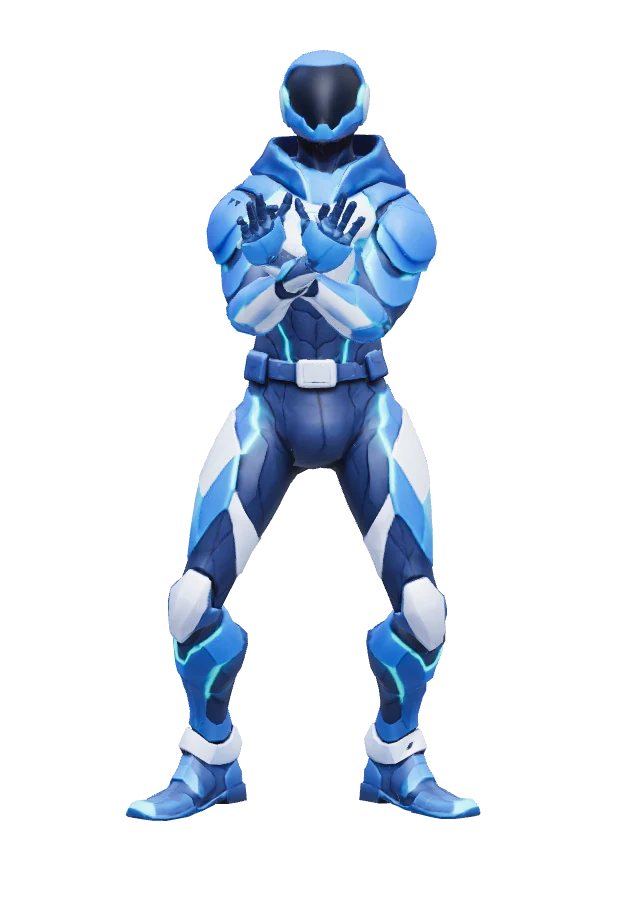
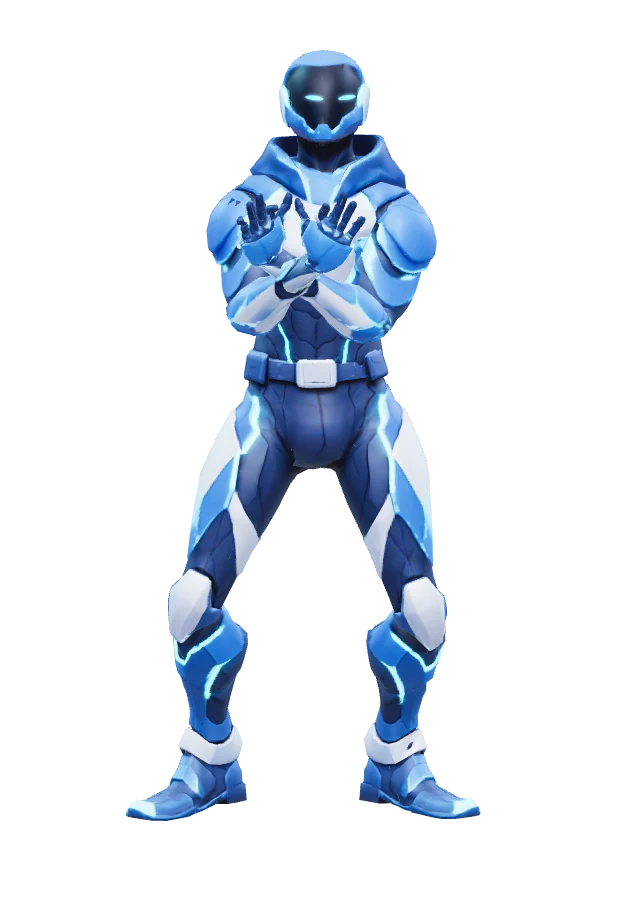
Azure: glowing slit eyes on the visor, video-like lighting
- visor eyes: two narrow cyan slits tilted to the middle (blink, happy,
  angry, x kept), no mouth; stuck to the visor surface by a raycast
- cyan armor seams glow (emissive mask from the texture)
- two cyan rim lights + soft cool fill, slightly lower exposure
- 2D frames re-rendered with the same look

Claude-Session: https://claude.ai/code/session_01HdTDkaoMVJGspDGXskbe46

diff --git a/public/knight3d.js b/public/knight3d.js
@@ -27,14 +27,17 @@ export async function createKnight(host, { onReact = () => {} } = {}) {
   host.appendChild(canvas);
   const R = new THREE.WebGLRenderer({ canvas, antialias: true, alpha: true, preserveDrawingBuffer: DBG.has('shot') });
   R.setPixelRatio(Math.min(devicePixelRatio, 2));
-  R.outputColorSpace = THREE.SRGBColorSpace; R.toneMapping = THREE.ACESFilmicToneMapping; R.toneMappingExposure = 1.05;
+  R.outputColorSpace = THREE.SRGBColorSpace; R.toneMapping = THREE.ACESFilmicToneMapping; R.toneMappingExposure = num('exp', 1.0);
   R.shadowMap.enabled = true; R.shadowMap.type = THREE.PCFSoftShadowMap;
   const S = new THREE.Scene();
   S.environment = new THREE.PMREMGenerator(R).fromScene(new RoomEnvironment(), 0.04).texture;
-  S.add(new THREE.HemisphereLight(0xcfe0ff, 0x1a2a55, 0.9));
-  const key = new THREE.DirectionalLight(0xffffff, 2.2); key.position.set(1.2, 3, 3); key.castShadow = true; key.shadow.mapSize.set(1024, 1024);
+  // lit like the promo video: soft cool fill, a key from the front-right, strong cyan rims on both sides of the silhouette
+  S.add(new THREE.HemisphereLight(0xd6e6ff, 0x101c40, num('hemi', 0.75)));
+  const key = new THREE.DirectionalLight(0xf4f8ff, num('key', 1.9)); key.position.set(1.2, 3, 3); key.castShadow = true; key.shadow.mapSize.set(1024, 1024);
   Object.assign(key.shadow.camera, { left: -1.6, right: 1.6, top: 2.2, bottom: -0.6 }); S.add(key);
-  const rim = new THREE.DirectionalLight(0x7fb4ff, 1.6); rim.position.set(-2, 2, -2); S.add(rim);
+  const rim = new THREE.DirectionalLight(0x7fe0ff, num('rim', 3.2)); rim.position.set(-2.2, 1.8, -2); S.add(rim);
+  const rim2 = new THREE.DirectionalLight(0x9fc8ff, num('rim', 3.2) * 0.8); rim2.position.set(2.2, 1.6, -2); S.add(rim2);
+  const fill = new THREE.DirectionalLight(0x8fb8ff, 0.5); fill.position.set(-1.5, 0.4, 2.5); S.add(fill);
   const floor = new THREE.Mesh(new THREE.PlaneGeometry(4, 3), new THREE.ShadowMaterial({ opacity: 0.32 }));
   floor.rotation.x = -Math.PI / 2; floor.receiveShadow = true; S.add(floor);
   const C = new THREE.OrthographicCamera(-1, 1, 1, -1, 0.1, 50);
@@ -57,7 +60,7 @@ export async function createKnight(host, { onReact = () => {} } = {}) {
   const knight = K.scene; knight.scale.setScalar(MODEL_SCALE); S.add(knight);
   const bone = n => { let b = null; knight.traverse(o => { if (o.name === n) b = o; }); return b; };
   let body = null;
-  knight.traverse(o => { if (o.isMesh) { o.castShadow = true; if (o.material) o.material.envMapIntensity = 1.2; } });
+  knight.traverse(o => { if (o.isMesh) { o.castShadow = true; if (o.material) { o.material.envMapIntensity = num('env', 1.0); glowStripes(o.material); } } });
   knight.traverse(o => { if (o.isSkinnedMesh) { body = o; o.frustumCulled = false; } });
 
   // ---------- animation ----------
@@ -146,7 +149,10 @@ export async function createKnight(host, { onReact = () => {} } = {}) {
     const patch = new THREE.Mesh(geo, new THREE.MeshBasicMaterial({ map: face.tex, transparent: true, depthWrite: false, blending: THREE.AdditiveBlending, toneMapped: false, polygonOffset: true, polygonOffsetFactor: -4 }));
     const hp = head.getWorldPosition(new THREE.Vector3());
     patch.position.set(0, hp.y + FACE.y, hp.z + FACE.z); patch.renderOrder = 2;
-    patch.visible = false;   // Azure has a clean glowing visor of its own; the face canvas stays for expressions logic
+    if (body) {   // sit the eyes right on the visor surface
+      const rc = new THREE.Raycaster(new THREE.Vector3(hp.x, patch.position.y, hp.z + 5), new THREE.Vector3(0, 0, -1));
+      const hit = rc.intersectObject(body, false)[0]; if (hit) patch.position.z = hit.point.z + 0.006;
+    }
     S.add(patch); patch.updateMatrixWorld(true); head.attach(patch);
     act('Idle').stop();
   }
@@ -250,29 +256,37 @@ function pick(list, not) { const l = list.filter(x => x !== not); return l[Math.
 
 
 // Face: 1000×600 canvas drawn in code (glowing eyes + voice line), mapped onto the visor
+// the cyan seams of the armor glow on their own (emissive), so they stay bright in any light
+export function glowStripes(m) {
+  const img = m.map && m.map.image; if (!img || m.userData.glow) return; m.userData.glow = true;
+  try {
+    const W = Math.min(1024, img.width), H = Math.round(W * img.height / img.width), cv = document.createElement('canvas'); cv.width = W; cv.height = H;
+    const g = cv.getContext('2d'); g.drawImage(img, 0, 0, W, H); const d = g.getImageData(0, 0, W, H), px = d.data;
+    for (let i = 0; i < px.length; i += 4) { const r = px[i], gg = px[i + 1], b = px[i + 2]; const cyan = gg > 140 && b > 170 && r < 140 && gg > r + 50;
+      if (!cyan) { px[i] = px[i + 1] = px[i + 2] = 0; } }
+    g.putImageData(d, 0, 0); const t = new THREE.CanvasTexture(cv);
+    t.flipY = m.map.flipY; t.colorSpace = THREE.SRGBColorSpace; t.wrapS = m.map.wrapS; t.wrapT = m.map.wrapT;
+    m.emissiveMap = t; m.emissive = new THREE.Color(0xffffff); m.emissiveIntensity = 1.6; m.needsUpdate = true;
+  } catch (e) { /* no glow if the texture can't be read */ }
+}
+
 export function makeFace() {
   // SECRA's face: light drawn on the dark visor — two eye bars and a voice line, all in a cyan glow
   const FW = 1000, FH = 600, cv = document.createElement('canvas'); cv.width = FW; cv.height = FH;
   const g = cv.getContext('2d'), tex = new THREE.CanvasTexture(cv); tex.colorSpace = THREE.SRGBColorSpace;
   const st = { eyes: 'open', mouth: 'closed', tex, set(e, m) { if (e) st.eyes = e; if (m) st.mouth = m; draw(); } };
-  const GLOW = '#7ff3ff', EY = 235, EX = [325, 675], MY = 440;
+  const GLOW = '#7ff3ff', EY = 300, EX = [330, 670], MY = 440;
   function glow(fn, w = 26) { g.save(); g.strokeStyle = GLOW; g.fillStyle = GLOW; g.lineCap = 'round'; g.lineJoin = 'round'; g.shadowColor = GLOW; g.shadowBlur = 40; g.lineWidth = w; fn(); g.restore(); }
-  // cute look: big soft oval eyes with a little shine, gentle curves instead of hard bars
-  function oval(x, y, rx, ry) { g.beginPath(); g.ellipse(x, y, rx, ry, 0, 0, Math.PI * 2); g.fill(); }
+  // visor eyes: two narrow glowing slits, tilted toward the middle (as in the promo video)
+  function slit(x, y, len, th, ang) { g.save(); g.translate(x, y); g.rotate(ang); g.beginPath(); g.ellipse(0, 0, len / 2, th / 2, 0, 0, Math.PI * 2); g.fill(); g.restore(); }
   function eye(x, kind) {
-    const s = x < FW / 2 ? 1 : -1;
-    if (kind === 'open' || kind === 'angry') {
-      glow(() => { g.globalAlpha = 0.9; oval(x, EY, 62, 88); });
-      g.save(); g.fillStyle = 'rgba(0,0,0,0.85)'; oval(x - 20, EY - 38, 12, 15); oval(x + 24, EY + 34, 6, 7);   // shine spots (left dark = additive "hole")
-      if (kind === 'angry') { g.beginPath(); g.moveTo(x - 110 * s, EY - 120); g.lineTo(x + 90 * s, EY - 120); g.lineTo(x + 90 * s, EY - 10); g.closePath(); g.fill(); }
-      g.restore(); return;
-    }
+    const s = x < FW / 2 ? 1 : -1;   // left eye: inner end is to the right
     glow(() => {
-      g.beginPath();
-      if (kind === 'closed') g.arc(x, EY - 10, 62, 0.15 * Math.PI, 0.85 * Math.PI);            // sleepy ‿
-      else if (kind === 'happy') g.arc(x, EY + 45, 64, 1.15 * Math.PI, 1.85 * Math.PI);       // smiling ^
-      else if (kind === 'x') { g.moveTo(x - 50, EY - 50); g.lineTo(x + 50, EY + 50); g.moveTo(x + 50, EY - 50); g.lineTo(x - 50, EY + 50); }
-      g.stroke();
+      if (kind === 'open') { g.globalAlpha = 0.95; slit(x, EY, 190, 46, 0.2 * s); }
+      else if (kind === 'angry') { slit(x, EY + 10, 190, 40, 0.42 * s); }
+      else if (kind === 'closed') { slit(x, EY + 8, 180, 12, 0.12 * s); }
+      else if (kind === 'happy') { g.beginPath(); g.arc(x, EY + 60, 92, 1.2 * Math.PI, 1.8 * Math.PI); g.stroke(); }
+      else if (kind === 'x') { g.beginPath(); g.moveTo(x - 50, EY - 50); g.lineTo(x + 50, EY + 50); g.moveTo(x + 50, EY - 50); g.lineTo(x - 50, EY + 50); g.stroke(); }
     }, 24);
   }
   // voice line: a small smile at rest, a little waveform while speaking
@@ -284,7 +298,7 @@ export function makeFace() {
       const step = 40; a.forEach((h, i) => { const x = mx + (i - (n - 1) / 2) * step; g.beginPath(); g.moveTo(x, MY - h * 60); g.lineTo(x, MY + h * 60); g.stroke(); });
     }, 18);
   }
-  function draw() { g.clearRect(0, 0, FW, FH); EX.forEach(x => eye(x, st.eyes)); mouth(st.mouth); tex.needsUpdate = true; }
+  function draw() { g.clearRect(0, 0, FW, FH); EX.forEach(x => eye(x, st.eyes)); tex.needsUpdate = true; }   // no mouth: the visor only shows eyes
   draw();
   return st;
 }

diff --git a/public/index.html b/public/index.html
@@ -5,7 +5,7 @@
 <meta name="viewport" content="width=device-width, initial-scale=1, viewport-fit=cover">
 <title>SECRA — приватный ИИ-агент на NEAR</title>
 <meta name="description" content="SECRA — голосовой ИИ-агент на NEAR: отвечает в защищённой среде и платит приватно через NEAR Intents">
-<link rel="stylesheet" href="app.css?v=secra6">
+<link rel="stylesheet" href="app.css?v=secra7">
 <link rel="manifest" href="manifest.webmanifest">
 <meta name="theme-color" content="#0a1638">
 <link rel="apple-touch-icon" href="icons/apple-180.png">
@@ -68,12 +68,12 @@
     <div class="bubble" id="bubble" aria-live="polite"></div>
     <button class="bexp" id="bexp" aria-label="Show more" type="button">⌄</button>
     <div class="char" id="char" role="img" aria-label="SECRA">
-      <img data-f="idle"  src="img/idle.webp?v=secra6"  alt="" class="show">
-      <img data-f="blink" src="img/blink.webp?v=secra6" alt="">
-      <img data-f="talk1" src="img/talk1.webp?v=secra6" alt="">
-      <img data-f="talk2" src="img/talk2.webp?v=secra6" alt="">
-      <img data-f="laugh" src="img/laugh.webp?v=secra6" alt="">
-      <img data-f="wave"  src="img/wave.webp?v=secra6"  alt="">
+      <img data-f="idle"  src="img/idle.webp?v=secra7"  alt="" class="show">
+      <img data-f="blink" src="img/blink.webp?v=secra7" alt="">
+      <img data-f="talk1" src="img/talk1.webp?v=secra7" alt="">
+      <img data-f="talk2" src="img/talk2.webp?v=secra7" alt="">
+      <img data-f="laugh" src="img/laugh.webp?v=secra7" alt="">
+      <img data-f="wave"  src="img/wave.webp?v=secra7"  alt="">
     </div>
   </div>
 

diff --git a/public/widget.js b/public/widget.js
@@ -34,7 +34,7 @@
 
   var btn = document.createElement('button');
   btn.className = 'snw-btn'; btn.type = 'button';
-  btn.innerHTML = '<img alt="" src="' + origin + '/img/idle.webp?v=secra6"><span>' + label + '<small>🔒 ' + (lang === 'ru' ? 'проверяемо приватно' : 'verifiably private') + '</small></span>';
+  btn.innerHTML = '<img alt="" src="' + origin + '/img/idle.webp?v=secra7"><span>' + label + '<small>🔒 ' + (lang === 'ru' ? 'проверяемо приватно' : 'verifiably private') + '</small></span>';
   var panel = document.createElement('div'); panel.className = 'snw-panel';
   var close = document.createElement('button'); close.className = 'snw-x'; close.type = 'button'; close.textContent = '✕'; close.setAttribute('aria-label', 'Close');
   panel.appendChild(close);

diff --git a/public/app.js b/public/app.js
@@ -1271,7 +1271,7 @@ const APP_SRC = (document.currentScript && document.currentScript.src) || locati
     else if(kind==='annoyed') speak(L.annoyed[Math.floor(Math.random()*L.annoyed.length)]);
     else if(kind==='poke' && Math.random()<0.5) speak(L.poke[Math.floor(Math.random()*L.poke.length)]);
   }
-  if(window.__use3d) import('./knight3d.js?v=10').then(m=>m.createKnight(charEl,{onReact})).then(k=>{
+  if(window.__use3d) import('./knight3d.js?v=11').then(m=>m.createKnight(charEl,{onReact})).then(k=>{
     K3D=k; window.__knight=k; stage.classList.add('k3d'); k.mode(mode); setTimeout(layoutBg,50);
   }).catch(e=>{ console.warn('3D knight failed, showing pictures',e); stage.classList.remove('k3d'); });
 
